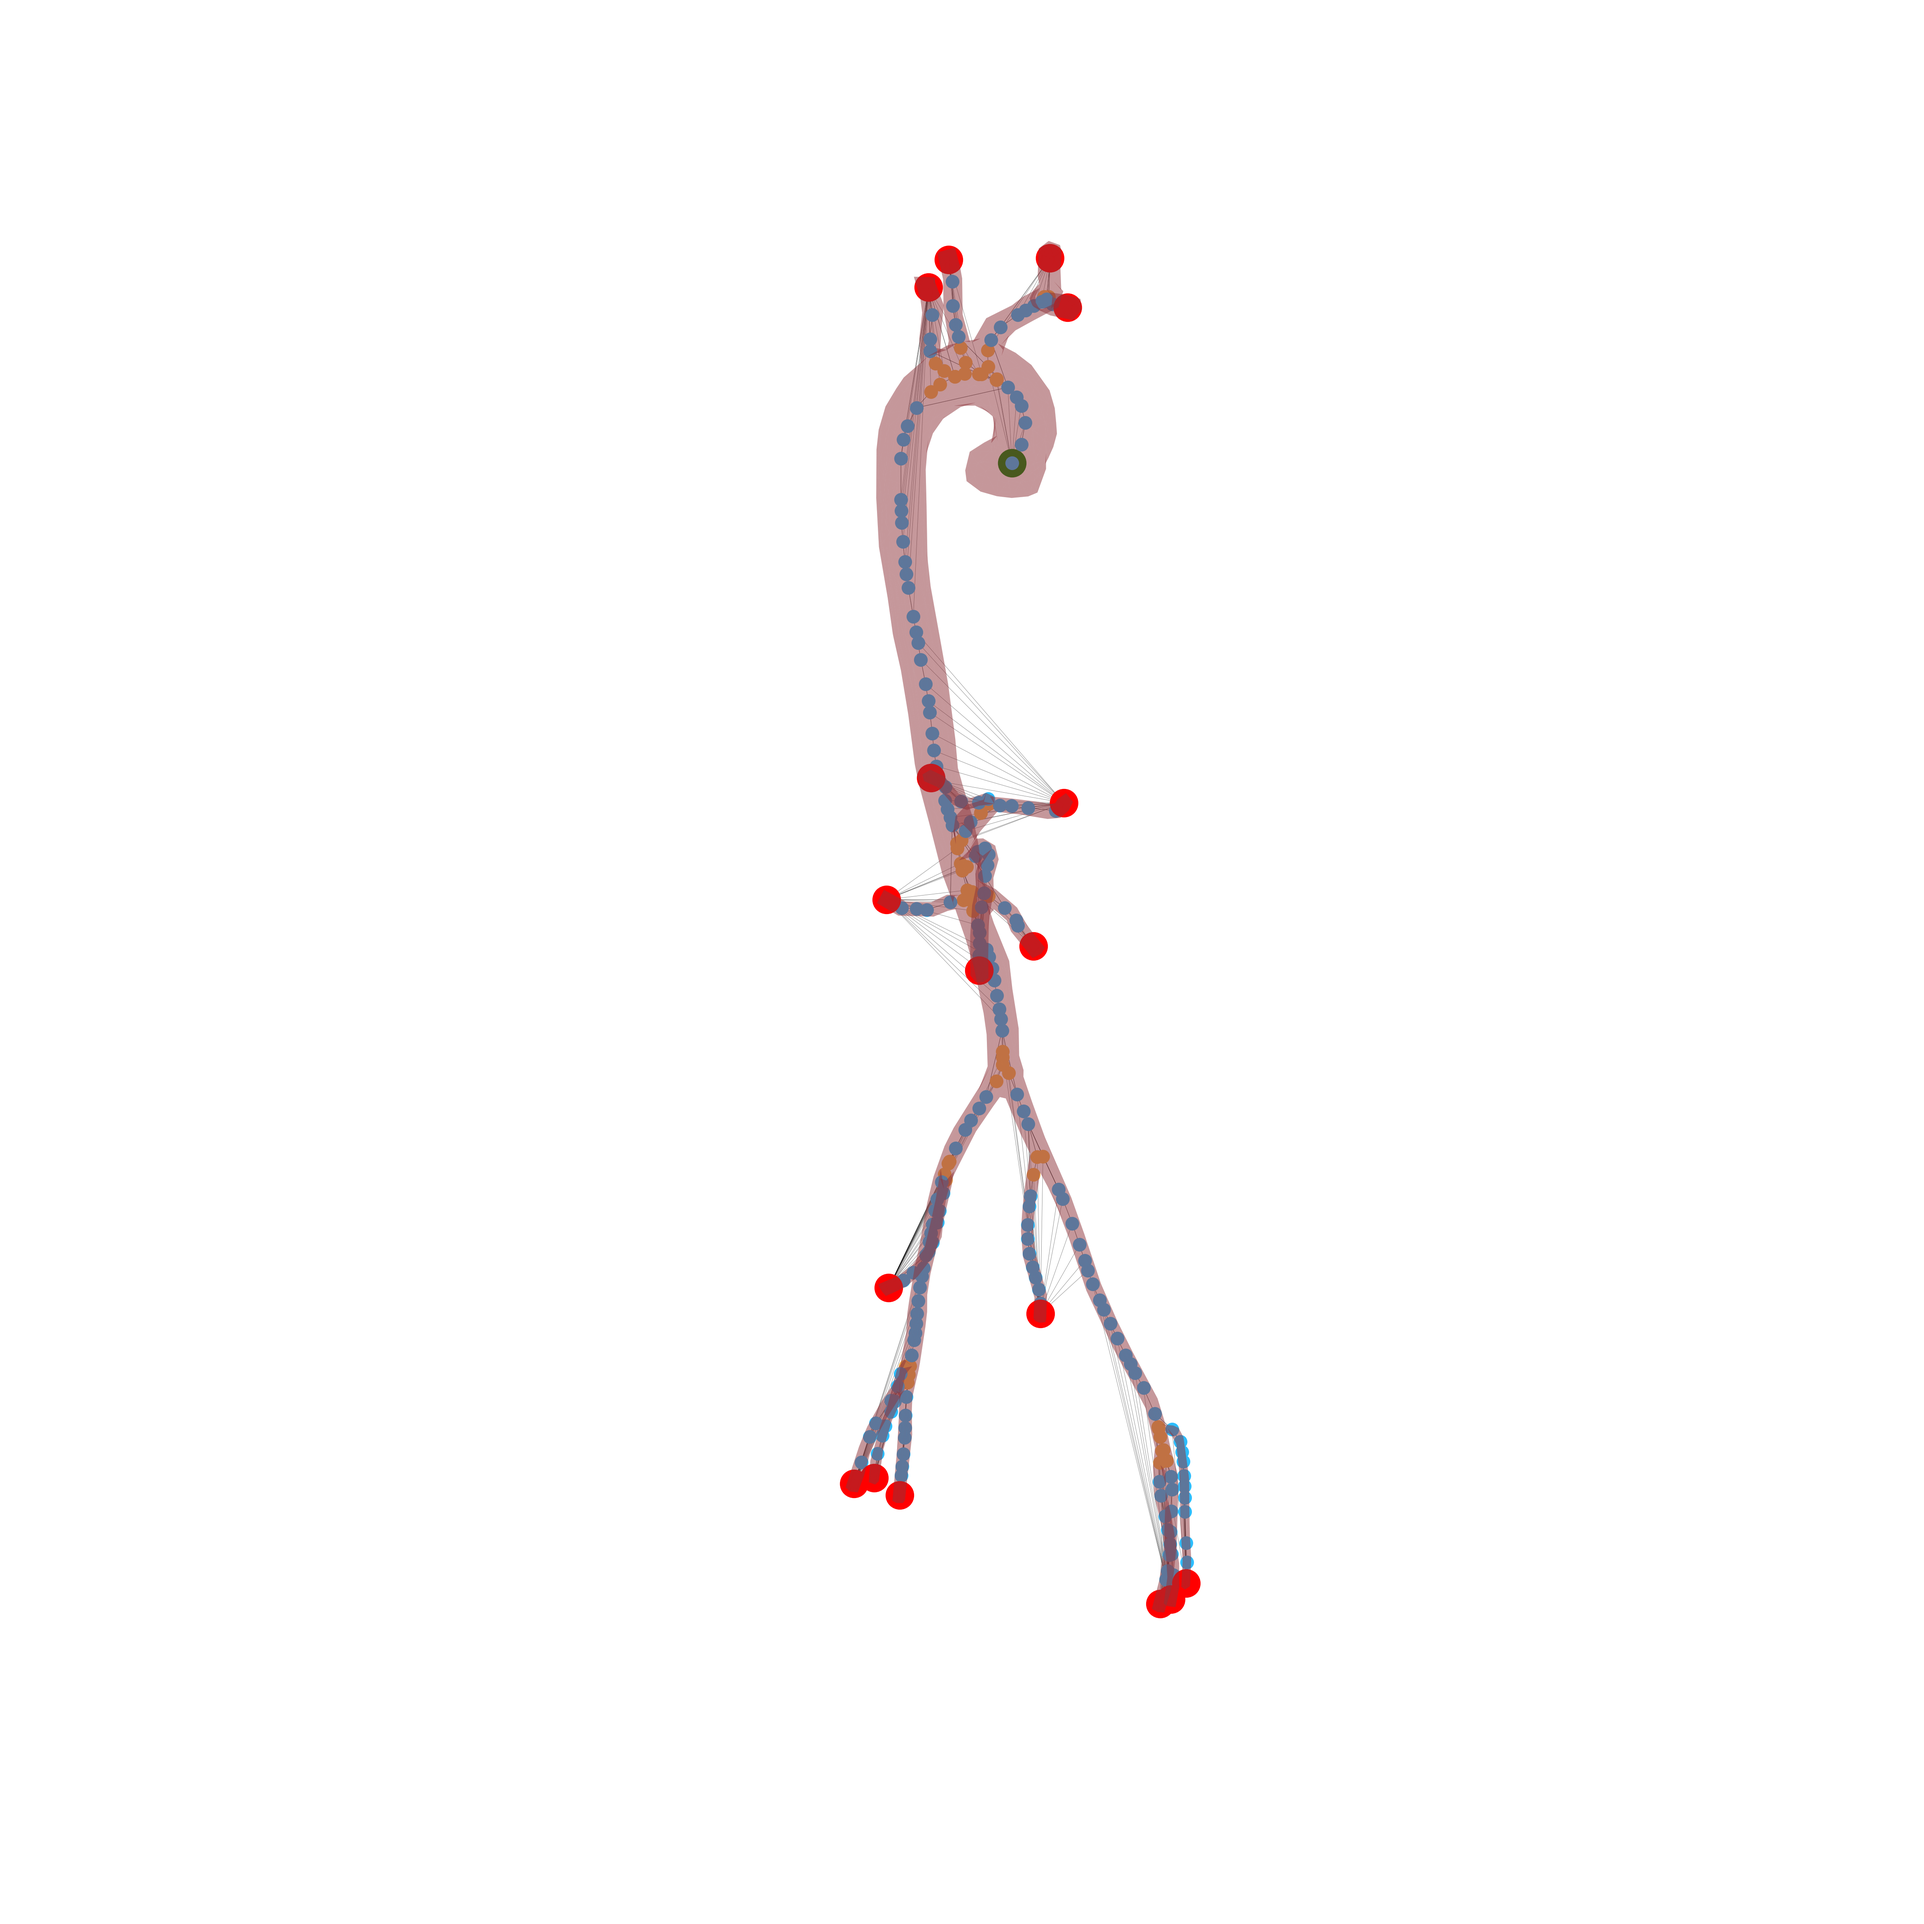
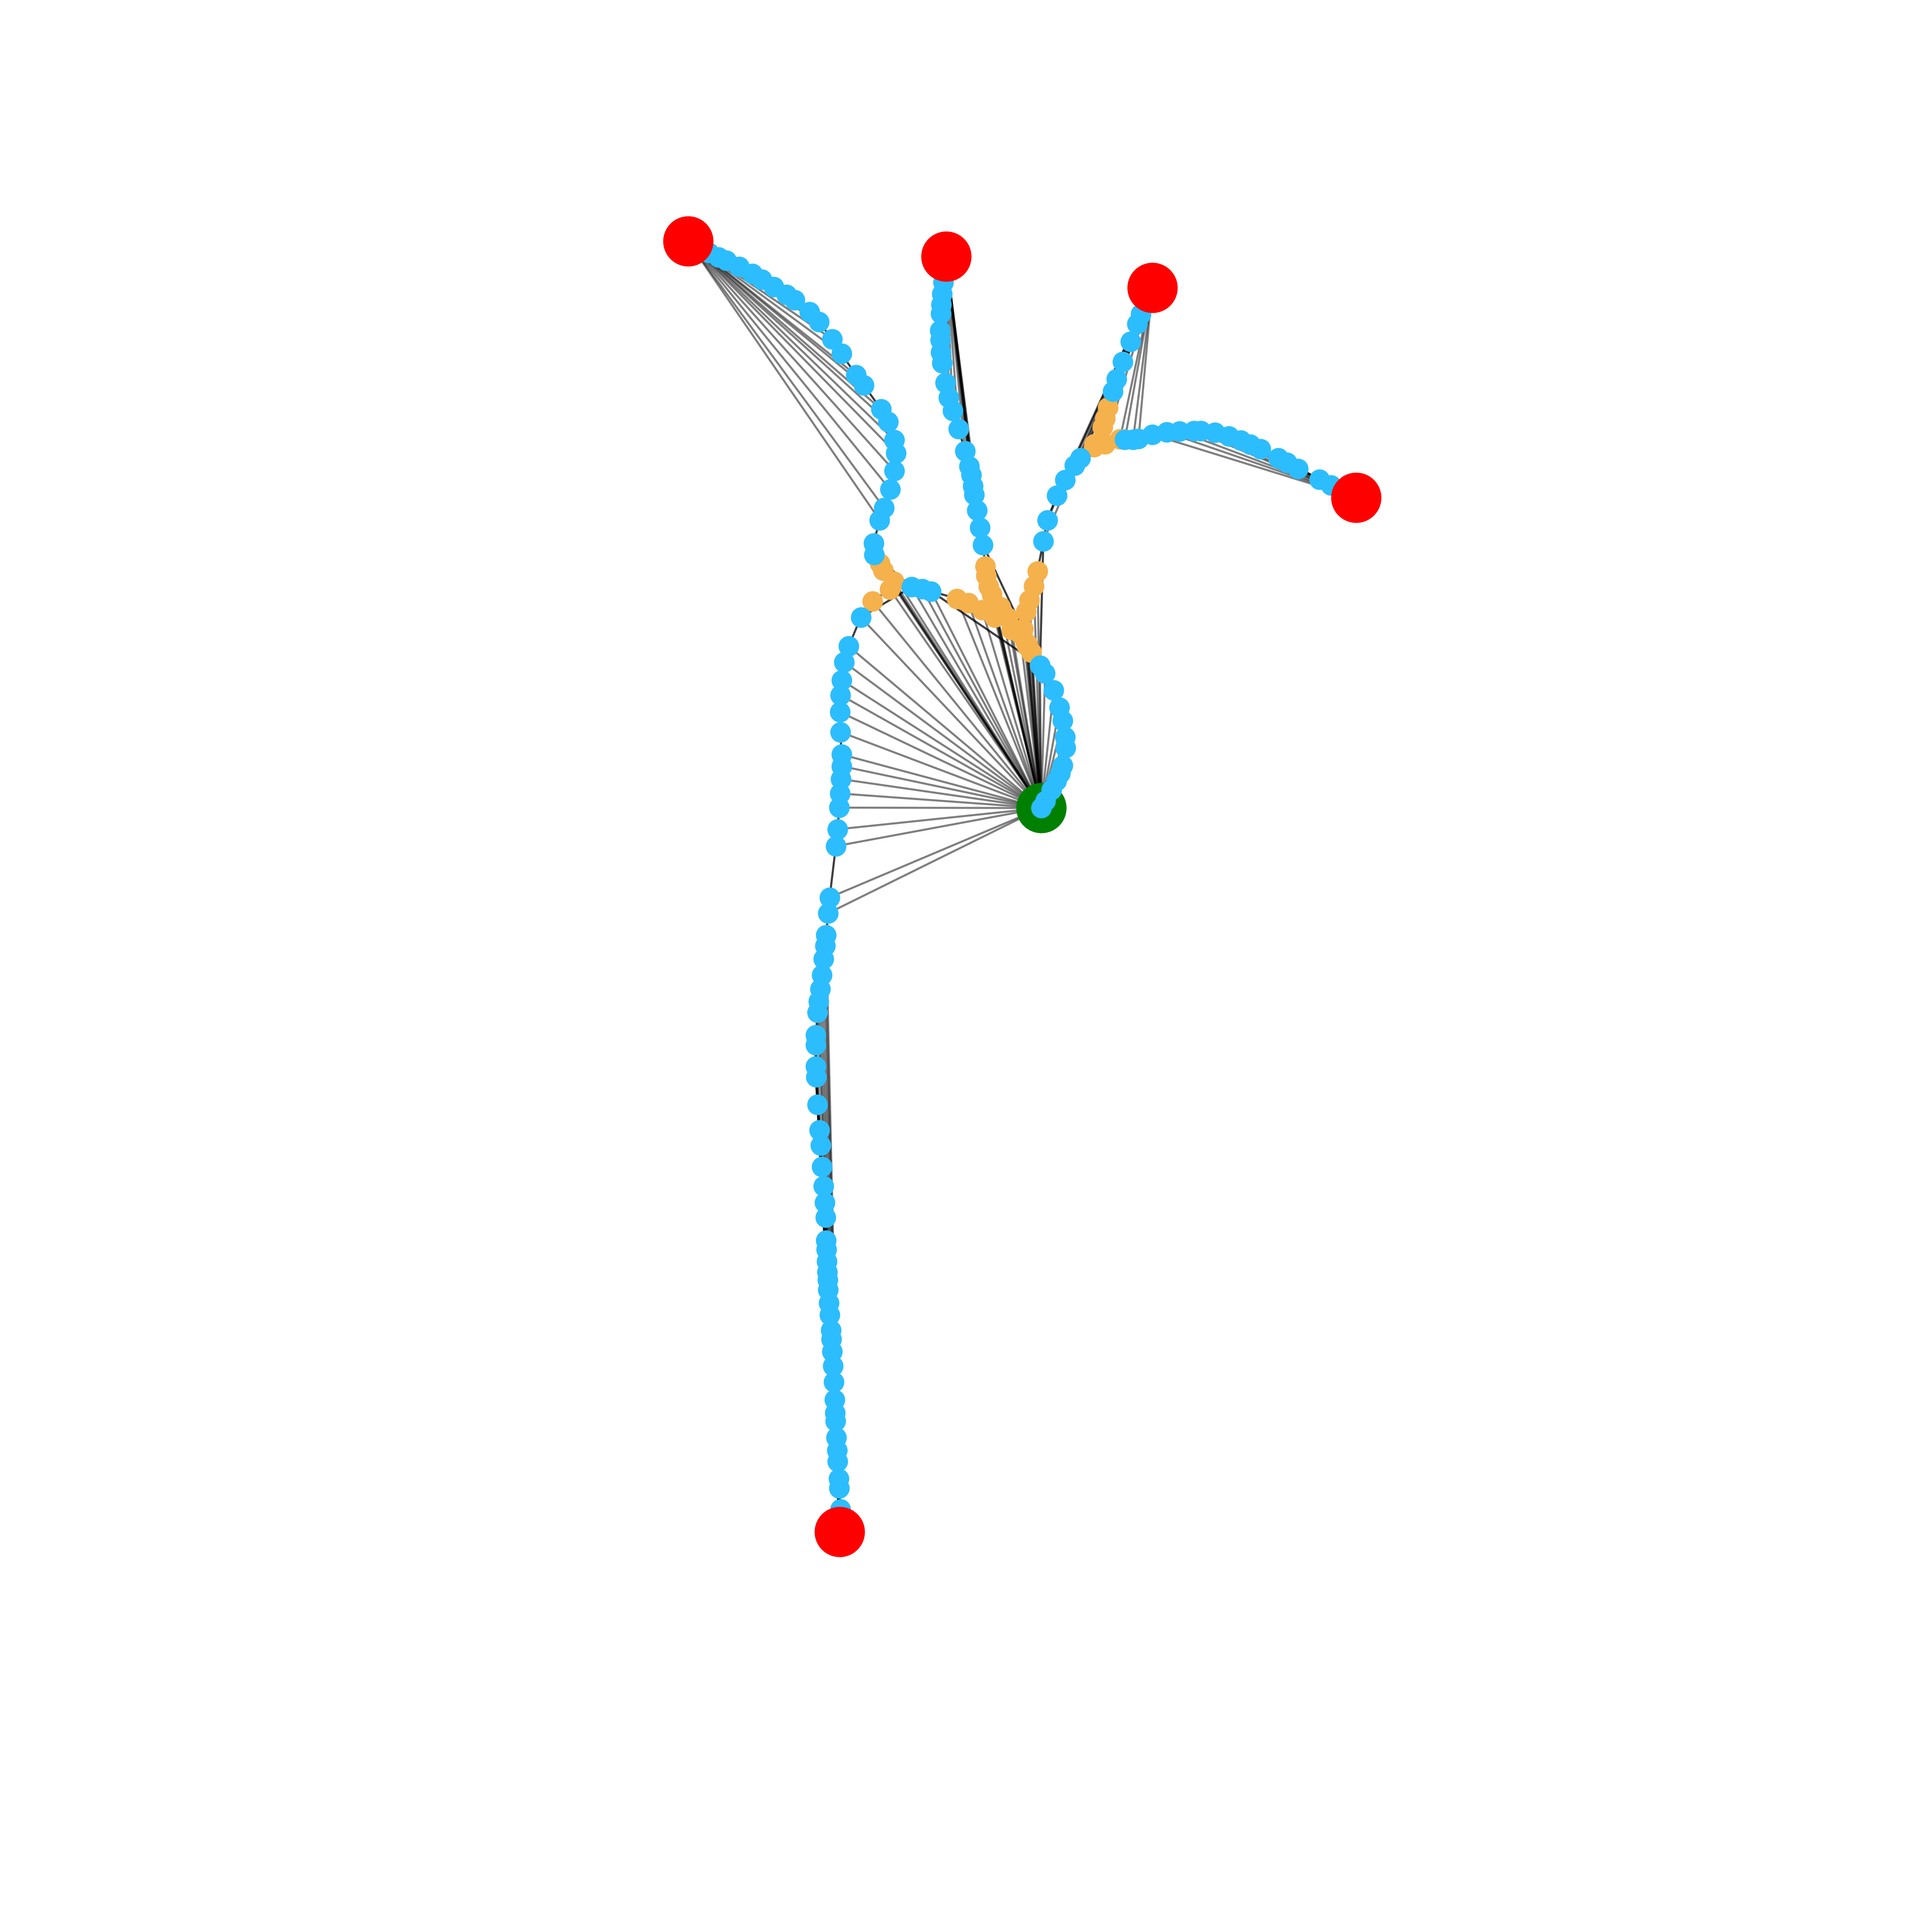
Document generate_dataset.py

Changed region(s): [[0.3435, 0.0937, 0.6871, 0.812], [0.5934, 0.7183, 0.6246, 0.8432], [0.6871, 0.2498, 0.7183, 0.2811]]

diff --git a/graph1d/generate_dataset.py b/graph1d/generate_dataset.py
@@ -14,7 +14,33 @@ from tqdm import tqdm
 nchunks = 10
 
 class Dataset(DGLDataset):
+    """
+    Class to store and traverse a DGL dataset.
+    
+    Attributes:
+        graphs: list of graphs in the dataset
+        params: dictionary containing parameters of the problem
+        times: array containing number of times for each graph in the dataset
+        lightgraphs: list of graphs, without edge and node features
+        graph_names: n x 2 array (n is the total number of timesteps in the 
+                     dataset) mapping a graph index (first column) to the
+                     timestep index (second column).
+  
+    """
     def __init__(self, graphs, params, graph_names):
+        """
+        Init Dataset.
+        
+        Init Dataset with list of graphs, dictionary of parameters, and list of 
+        graph names.
+
+        Arguments:
+            graphs: lift of graphs
+            params: dictionary of parameters
+            graph_names: list of graph names
+            index_map: 
+    
+        """
         self.graphs = graphs
         self.params = params
         self.times = []
@@ -23,6 +49,14 @@ class Dataset(DGLDataset):
         super().__init__(name='dataset')
 
     def create_index_map(self):
+        """
+        Create index map.
+        
+        Index map is a n x 2 array (n is the total number of timesteps in the 
+        dataset) mapping a graph index (first column) to the timestep index 
+        (second column).
+    
+        """
         i = 0
         offset = 0
         self.index_map = np.zeros((self.total_times, 2))
@@ -37,6 +71,13 @@ class Dataset(DGLDataset):
         self.index_map = np.array(self.index_map, dtype = int)
             
     def process(self):
+        """
+        Process Dataset.
+
+        This function creates lightgraphs, the index map, and collects all times
+        from the graphs.
+    
+        """
         start = time.time()
 
         for graph in tqdm(self.graphs, desc = 'Processing dataset', 
@@ -65,6 +106,14 @@ class Dataset(DGLDataset):
         print('\tDataset generated in {:0.2f} s'.format(elapsed_time))
 
     def get_lightgraph(self, i):
+        """
+        Get ith lightgraph
+
+        Noise is added to node features of the graph (pressure and flowrate).
+
+        Arguments:
+            i: index of the graph
+        """
         indices = self.index_map[i,:]
 
         nf = self.graphs[indices[0]].ndata['nfeatures'][:,:,indices[1]].clone()
@@ -104,19 +153,51 @@ class Dataset(DGLDataset):
         return self.lightgraphs[indices[0]]
 
     def set_noise_rate(self, noise_rate):
+        """
+        Set noise rate.
+
+        Noise is added to node features of the graph (pressure and flowrate).
+
+        Arguments:
+            noise rate: rate of the noise
+        """
         self.noise_rate = noise_rate
-        # self.noises = []
-        # for graph in self.graphs:
-        #     nsize = graph.ndata['nfeatures'][:,:2,:].shape
-        #     self.noises.append(np.random.normal(0, noise_rate, nsize))
 
     def __getitem__(self, i):
+        """
+        Get ith lightgraph
+
+        Arguments:
+            i: index of the lightgraph
+        
+        Returns:
+            ith lightgraph
+        """
         return self.get_lightgraph(i)
 
     def __len__(self):
+        """
+        Length of the dataset
+
+        Length of the dataset is the total number of timesteps.
+
+        Returns:
+            length of the Dataset
+        """
         return self.total_times
 
 def split(graphs, divs):
+    """
+    Split a list of graphs.
+
+    The graphs are split into multiple train/test groups. Number of groups is 
+    determined by the divs argument.
+
+    Arguments: 
+        divs: number of train/test groups.
+    Returns:
+        List of groups
+    """
     def chunks(lst, n):
         n = int(np.floor(len(lst)/n))
         for i in range(0, len(lst), n):
@@ -149,6 +230,17 @@ def split(graphs, divs):
     return datasets
 
 def generate_dataset(graphs, params):
+    """
+    Generate a list of datasets
+
+    The listis composed of dictionary containing train and test Datasets.
+
+    Arguments: 
+        params: dictionary of parameters
+
+    Returns:
+        List of datasets
+    """
     dataset_list = []
     datasets = split(graphs, nchunks)    
     for dataset in datasets:

diff --git a/graph1d/plot_graph.py b/graph1d/plot_graph.py
@@ -18,13 +18,16 @@ import generate_graphs as gg
 from stl import mesh
 from mpl_toolkits import mplot3d
 
+"""
+This function plots a graph and saves it to file.
+"""
 if __name__ == "__main__":
     data_location = io.data_location()
     input_dir = data_location + 'vtps_aortas'
     input_dir_mesh = data_location + 'stls/'
     output_dir = data_location + 'graphs/'
 
-    file = '0003_0001.1' # sys.argv[1]
+    file = '0111_0001.1'  # sys.argv[1]
     stl_mesh = None
     if os.path.exists(input_dir_mesh + file + '.stl'):
         stl_mesh = mesh.Mesh.from_file(input_dir_mesh + file + '.stl')
@@ -39,7 +42,7 @@ if __name__ == "__main__":
     indices = {'inlet': inlet,
             'outlets': outlets}
 
-    resample_perc = 0.03
+    resample_perc = 0.05
     success = False
     while not success:
         try:
@@ -74,9 +77,9 @@ if __name__ == "__main__":
         filename = file.replace('.vtp','.' + str(i) + '.grph')
         add_boundary_edges = True
         add_junction_edges = True
-        try:
+        if try:
             graph, indices, \
-            points, bif_id, indices, \
+            points, bif_id, \
             edges1, edges2 = gg.generate_graph(part['point_data'],
                                             part['points'],
                                             part['edges1'], 
@@ -84,11 +87,13 @@ if __name__ == "__main__":
                                             add_boundary_edges,
                                             add_junction_edges)
             pathlib.Path('images').mkdir(parents=True, exist_ok=True)
-            pt.plot_graph(points, bif_id, indices, edges1, edges2, stl_mesh)
+            pt.plot_graph(points, bif_id, indices, edges1, edges2, stl_mesh,
+                          linewidth = 0.3, s = 4)
             plt.savefig('graph.png', 
                         format='png',
                         bbox_inches='tight',
                         dpi=1200)
+            # plt.show()
 
         except Exception as e:
             print(e)                

diff --git a/tools/plot_tools.py b/tools/plot_tools.py
@@ -36,7 +36,8 @@ color_list = [Cardinal_red, Cardinal_blue, CB91_Violet, CB91_Green, CB91_Pink,
               CB91_Amber, CB91_Purple]
 plt.rcParams['axes.prop_cycle'] = plt.cycler(color=color_list)
 
-def plot_graph(points, bif_id, indices, edges1, edges2, stl_mesh = None):
+def plot_graph(points, bif_id, indices, edges1, edges2, 
+               stl_mesh = None, linewidth = 0.3, s = 1):
     fig = plt.figure()
     ax = plt.axes(projection='3d')
     ax._axis3don = False
@@ -51,25 +52,25 @@ def plot_graph(points, bif_id, indices, edges1, edges2, stl_mesh = None):
                points[branch_nodes,1], 
                points[branch_nodes,2], 
                color = CB91_Blue,
-               depthshade=0, s = 1)
+               depthshade=0, s = s)
 
     ax.scatter(points[jun_nodes,0], 
             points[jun_nodes,1], 
             points[jun_nodes,2], 
             color = CB91_Amber,
-            depthshade=0, s = 1)
+            depthshade=0, s = s)
 
     inlet = indices['inlet']
-    ax.scatter(points[inlet,0], points[inlet,1], points[inlet,2],               color='green', depthshade=0, s = 10)
+    ax.scatter(points[inlet,0], points[inlet,1], points[inlet,2],               color='green', depthshade=0, s = s * 10)
 
     outlets = indices['outlets']
-    ax.scatter(points[outlets,0], points[outlets,1], points[outlets,2],color='red', depthshade=0, s = 10)
+    ax.scatter(points[outlets,0], points[outlets,1], points[outlets,2],color='red', depthshade=0, s = s * 10)
 
     for iedge in range(edges1.size):
         ax.plot3D([points[edges1[iedge],0],points[edges2[iedge],0]],
                   [points[edges1[iedge],1],points[edges2[iedge],1]],
                   [points[edges1[iedge],2],points[edges2[iedge],2]],
-                   color = 'black', linewidth=0.05, alpha = 0.5)
+                   color = 'black', linewidth = linewidth, alpha = 0.5)
 
     # ax.set_xlim([points[outlets[0],0]-0.1,points[outlets[0],0]+0.1])
     # ax.set_ylim([points[outlets[0],1]-0.1,points[outlets[0],1]+0.1])
